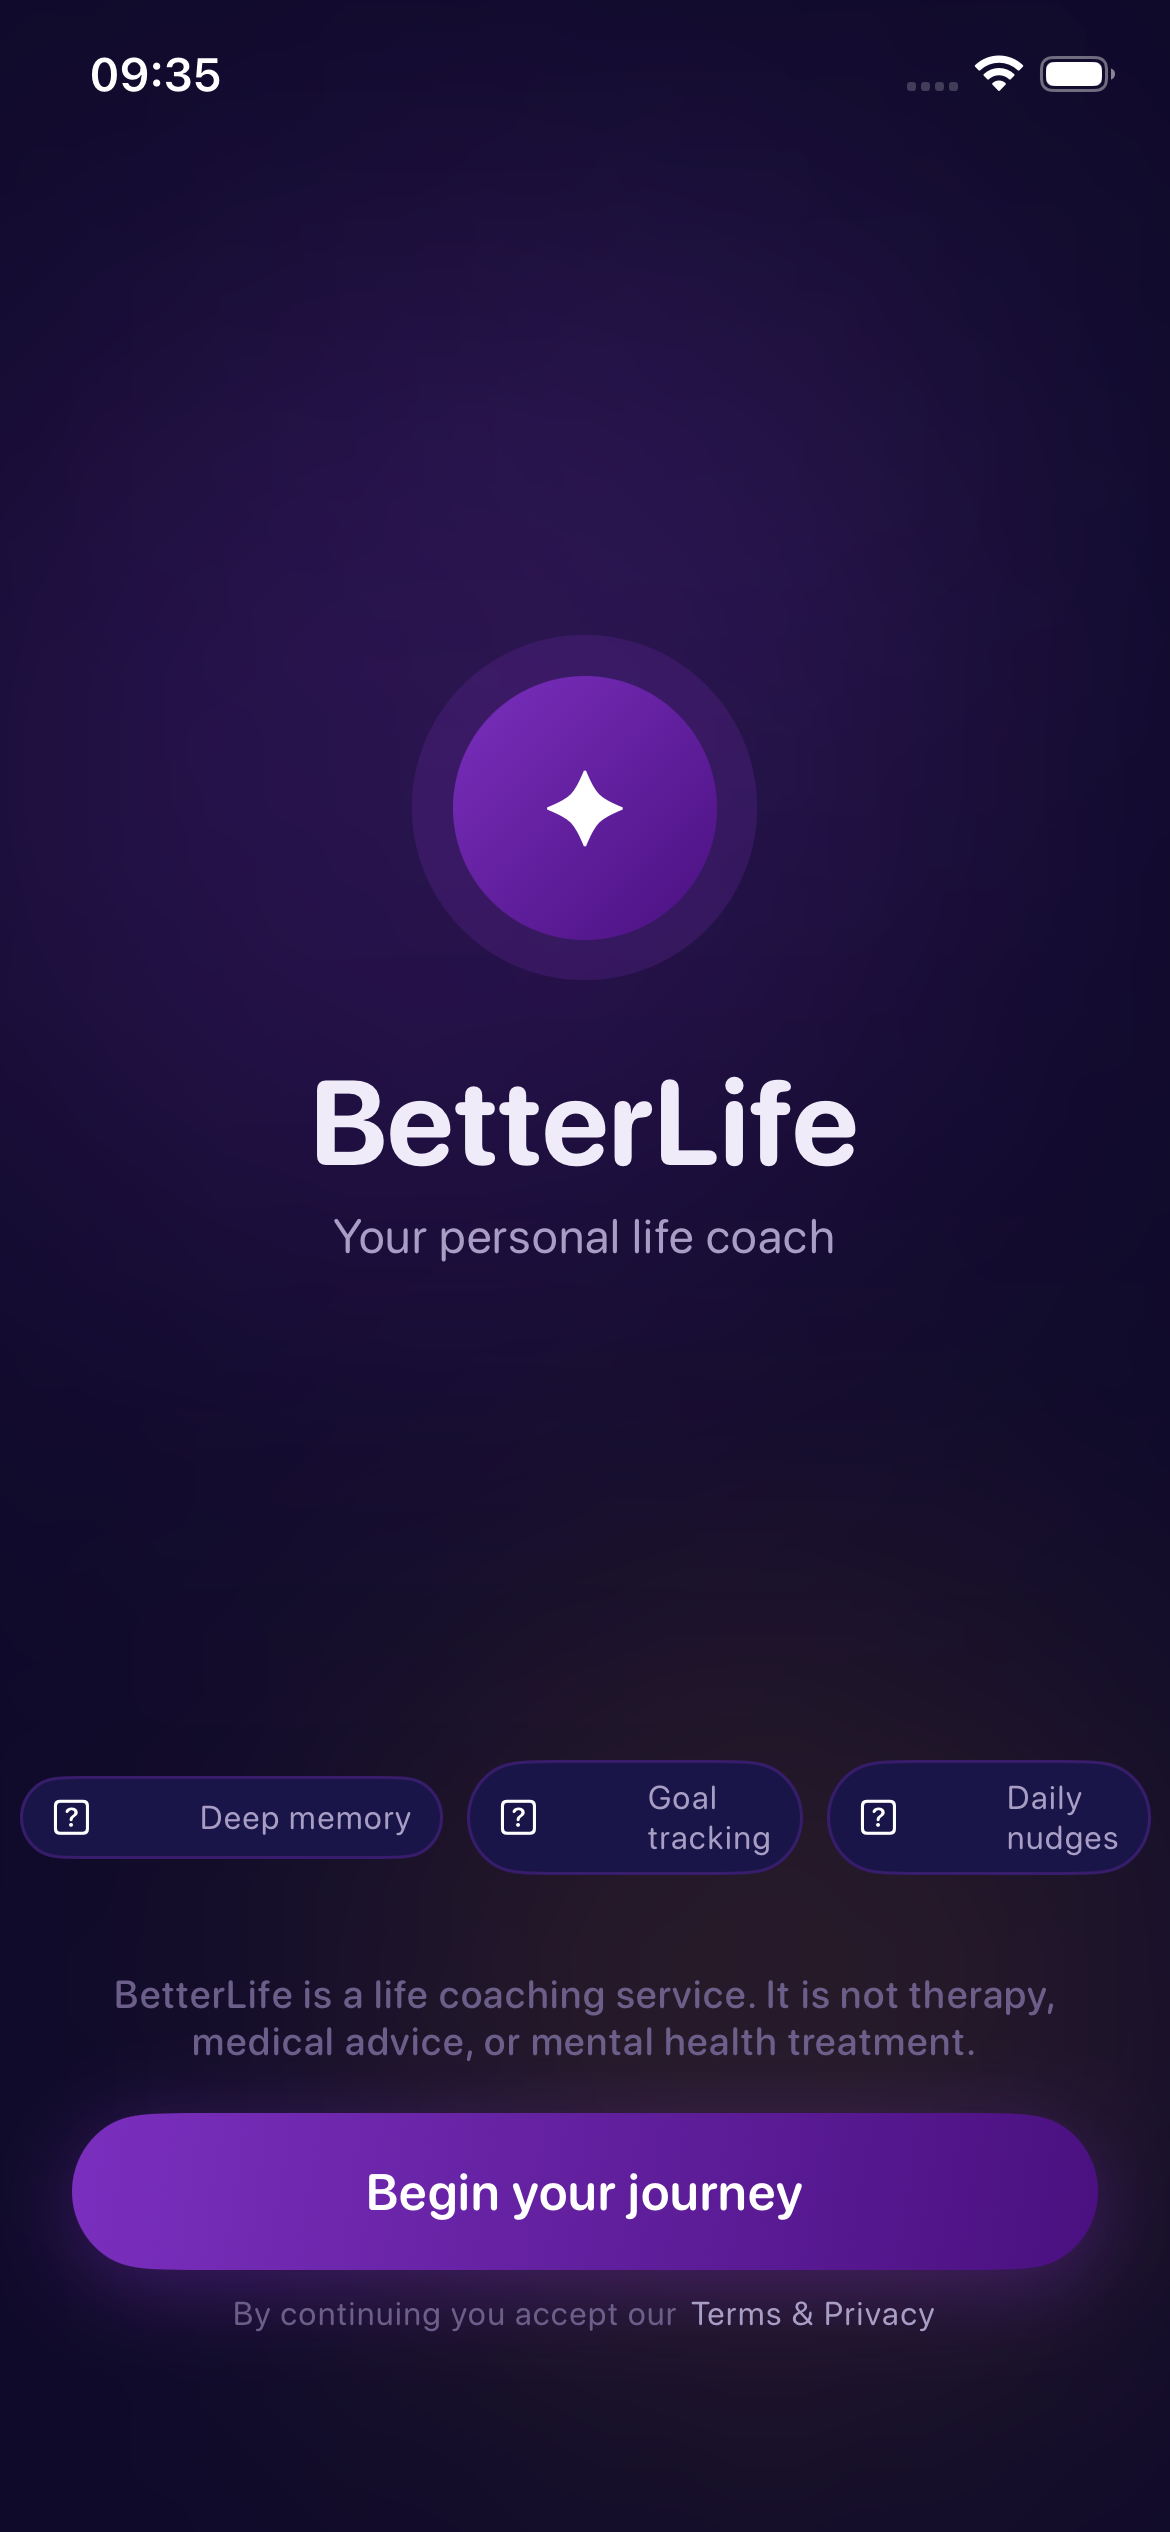
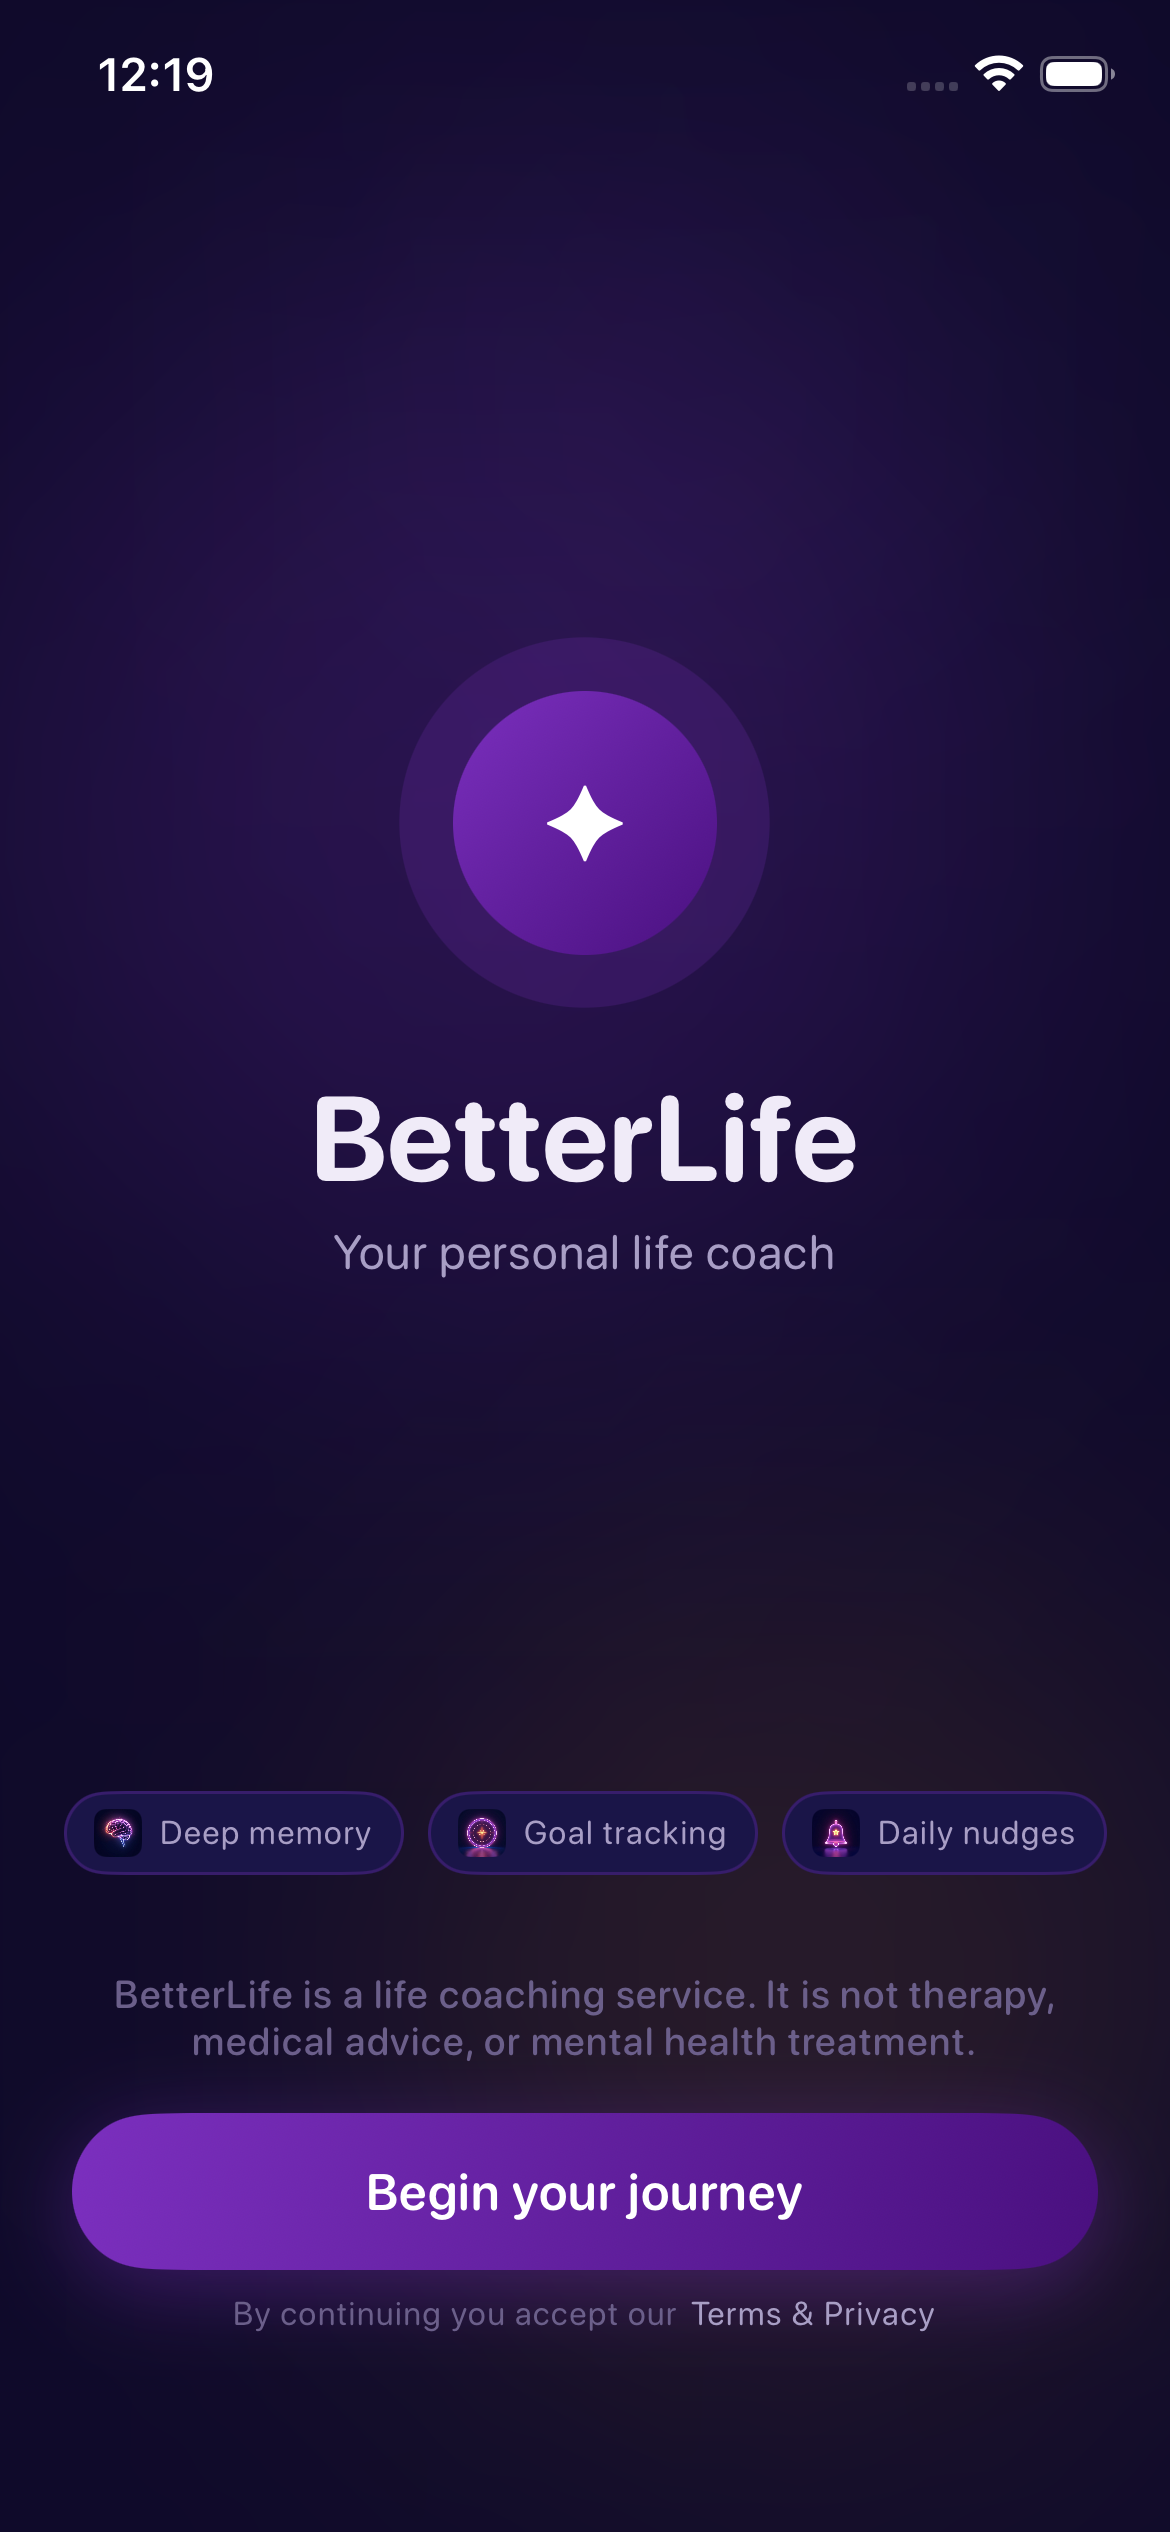
Update carousel with 13 beautiful, warning-free, custom 3D screenshots

diff --git a/index.html b/index.html
@@ -95,7 +95,7 @@
     </div>
     <div class="hero-showcase">
       <div class="phone-container">
-        <img src="assets/screenshot4.png" alt="BetterLife App Chat Interface Screen" class="phone-screen">
+        <img src="assets/screenshot8.png" alt="BetterLife App Chat Interface Screen" class="phone-screen">
       </div>
     </div>
   </header>
@@ -188,44 +188,56 @@
     <div class="carousel-container">
       <div class="carousel-track">
         <div class="carousel-slide">
-          <img src="assets/screenshot1.png" alt="BetterLife Welcome Screen">
-          <span class="carousel-caption">Welcome & Onboarding</span>
+          <img src="assets/screenshot1.png" alt="BetterLife Welcome & Onboarding Screen">
+          <span class="carousel-caption">Welcome Onboarding</span>
         </div>
         <div class="carousel-slide">
-          <img src="assets/screenshot2.png" alt="Onboarding Domain Choice Screen">
-          <span class="carousel-caption">Focus Domains</span>
+          <img src="assets/screenshot2.png" alt="Focus Domains Selection Screen">
+          <span class="carousel-caption">Focus Domains Choice</span>
         </div>
         <div class="carousel-slide">
-          <img src="assets/screenshot3.png" alt="Onboarding Stress Response Screen">
-          <span class="carousel-caption">Stress & Persona Profiling</span>
+          <img src="assets/screenshot3.png" alt="Interactive Stress Response & Persona Screen">
+          <span class="carousel-caption">Stress Response Level</span>
         </div>
         <div class="carousel-slide">
-          <img src="assets/screenshot4.png" alt="Coach Aria Chat Screen">
-          <span class="carousel-caption">Personal Coach Aria Chat</span>
+          <img src="assets/screenshot4.png" alt="Initial Goal Setting Setup Screen">
+          <span class="carousel-caption">Personalised Goal Setup</span>
         </div>
         <div class="carousel-slide">
-          <img src="assets/screenshot5.png" alt="Real-Time Speech Dictation Screen">
-          <span class="carousel-caption">Speech to Text Dictation</span>
+          <img src="assets/screenshot5.png" alt="Coaching Style Selection Screen">
+          <span class="carousel-caption">Coaching Tone Choices</span>
         </div>
         <div class="carousel-slide">
-          <img src="assets/screenshot6.png" alt="Active Goals Tracker Screen">
-          <span class="carousel-caption">Active Goals & Streaks</span>
+          <img src="assets/screenshot6.png" alt="Custom 3D Onboarding Summary Plan Screen">
+          <span class="carousel-caption">Your AI Coaching Plan</span>
         </div>
         <div class="carousel-slide">
-          <img src="assets/screenshot7.png" alt="Executive Insights Dashboard Screen">
-          <span class="carousel-caption">Executive Insights</span>
+          <img src="assets/screenshot7.png" alt="Main Coach Empty State Welcoming View">
+          <span class="carousel-caption">Coach Welcome Dashboard</span>
         </div>
         <div class="carousel-slide">
-          <img src="assets/screenshot8.png" alt="GDPR Data Portability Screen">
+          <img src="assets/screenshot8.png" alt="Active Coach Chat Conversation Screen with Aria">
+          <span class="carousel-caption">Interactive Chat with Aria</span>
+        </div>
+        <div class="carousel-slide">
+          <img src="assets/screenshot9.png" alt="Real-Time Speech Dictation Audio Panel">
+          <span class="carousel-caption">Real-Time Dictation Input</span>
+        </div>
+        <div class="carousel-slide">
+          <img src="assets/screenshot10.png" alt="Active Goal Checklist Tracker Dashboard Screen">
+          <span class="carousel-caption">Sleek Goal List Tracker</span>
+        </div>
+        <div class="carousel-slide">
+          <img src="assets/screenshot11.png" alt="Executive Cognitive Insights Analytics Screen">
+          <span class="carousel-caption">Sleek Analytics & Trends</span>
+        </div>
+        <div class="carousel-slide">
+          <img src="assets/screenshot12.png" alt="Profile Settings & GDPR Portability Dashboard Screen">
           <span class="carousel-caption">GDPR Profile & Data Export</span>
         </div>
         <div class="carousel-slide">
-          <img src="assets/screenshot9.png" alt="Preferences & Backdoor Screen">
-          <span class="carousel-caption">Preferences Dashboard</span>
-        </div>
-        <div class="carousel-slide">
-          <img src="assets/screenshot10.png" alt="StoreKit 2 Subscriptions Paywall Screen">
-          <span class="carousel-caption">StoreKit 2 Paywall</span>
+          <img src="assets/screenshot13.png" alt="StoreKit 2 Subscriptions Premium Paywall Upgrade Screen">
+          <span class="carousel-caption">StoreKit Premium Paywall</span>
         </div>
       </div>
       
